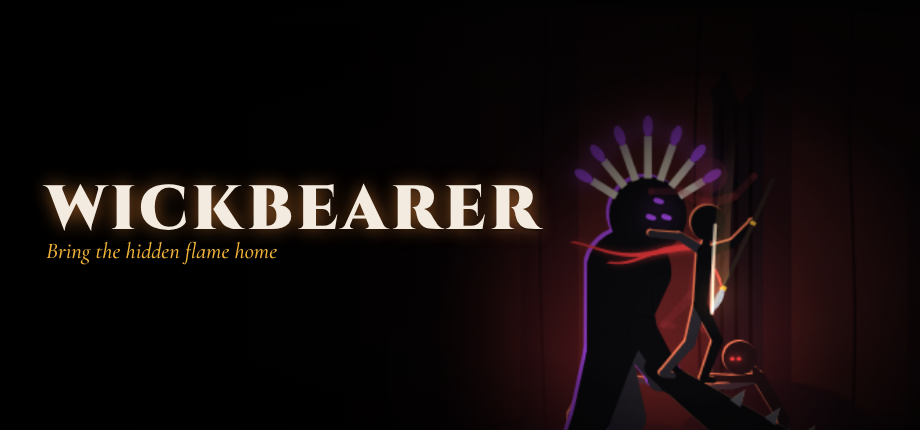
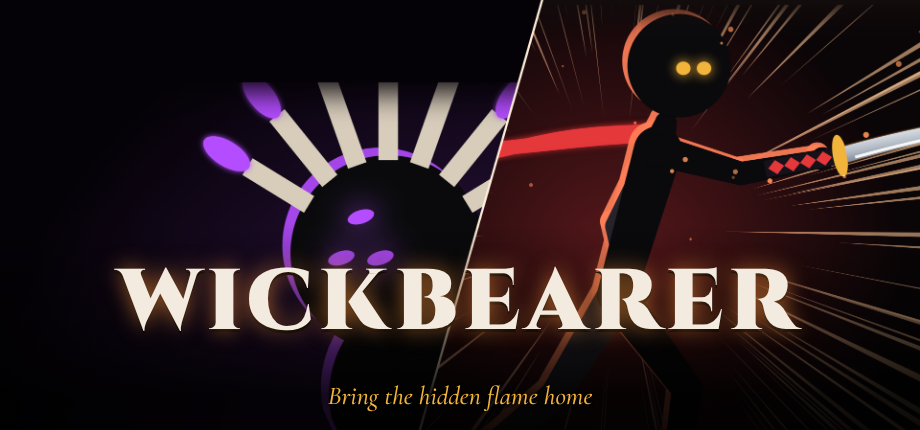
Key art: 4K versus composition and every Steam capsule size
Claude-Session: https://claude.ai/code/session_01BJ7jmPXkpNQ8p4uAxaCYVo

diff --git a/docs/store/keyart.html b/docs/store/keyart.html
@@ -1,0 +1,17 @@
+<!doctype html><html><head><meta charset="utf-8">
+<link href="https://fonts.googleapis.com/css2?family=Cinzel:wght@700;900&family=Cormorant+Garamond:ital,wght@1,500&display=block" rel="stylesheet">
+<style>html,body{margin:0;background:#000}
+.cap{position:relative;overflow:hidden;background:#050304 url(art.jpg) var(--pos,50% 50%)/cover no-repeat}
+.cap::after{content:'';position:absolute;inset:0;background:linear-gradient(transparent 52%,rgba(0,0,0,.88) 92%)}
+.logo,.sub{position:absolute;left:0;right:0;z-index:2;text-align:center}
+.logo{font-family:Cinzel,serif;font-weight:900;color:#f3ebe0;letter-spacing:.06em;text-shadow:0 0 .25em rgba(255,150,60,.6),0 .03em 0 #000}
+.sub{font-family:'Cormorant Garamond',serif;font-style:italic;color:#f2b43a;text-shadow:0 1px 3px #000}
+</style></head><body>
+<div id="c" class="cap"><div class="logo" id="l">WICKBEARER</div><div class="sub" id="s">Bring the hidden flame home</div></div>
+<script>
+const q=new URLSearchParams(location.search), w=+q.get('w'), h=+q.get('h'), logo=q.get('logo')!=='0';
+c.style.width=w+'px'; c.style.height=h+'px'; if(q.get('pos')) c.style.setProperty('--pos',q.get('pos'));
+const fs=Math.min(w*0.11,h*0.2); l.style.fontSize=fs+'px'; l.style.bottom=(h*0.06+fs*0.5)+'px'; s.style.fontSize=fs*0.3+'px'; s.style.bottom=h*0.045+'px';
+if(h<200) { s.style.display='none'; l.style.bottom=h*0.08+'px'; }
+if(!logo){ l.style.display=s.style.display='none'; c.classList.add('nologo'); document.styleSheets[1]; }
+</script></body></html>

diff --git a/docs/store/ka.js b/docs/store/ka.js
@@ -1,0 +1,6 @@
+const { chromium } = require('playwright');
+const jobs = [['keyart-4k',3840,2160,1,''],['capsule-header',920,430,1,'50% 40%'],['capsule-small',462,174,1,'50% 35%'],['capsule-main',1232,706,1,''],['capsule-vertical',748,896,1,'52% 50%'],['library-capsule',600,900,1,'52% 50%'],['library-hero',3840,1240,0,'50% 35%']];
+(async () => { const b = await chromium.launch(); const p = await b.newPage({ viewport: { width: 3900, height: 2200 } });
+  for (const [n,w,h,logo,pos] of jobs) { await p.goto('file://' + process.argv[2] + '?w='+w+'&h='+h+'&logo='+logo+'&pos='+encodeURIComponent(pos)); await p.waitForTimeout(1500);
+    await p.locator('#c').screenshot({ path: process.argv[3] + '/' + n + '.png' }); }
+  await b.close(); })();

diff --git a/docs/STORE.md b/docs/STORE.md
@@ -58,7 +58,7 @@ Action Roguelike, Roguelite, 2D Platformer, Hack and Slash, Stickman, Dark Fanta
 | Screenshots | 1920 × 1080, at least 5 | One per dungeon plus a boss reveal card |
 | Trailer | 1080p, 60 to 90 s | Open on a slam, end on the candle going out |
 
-Drafts of the header, small and main capsules are in `docs/store/`, cut from a real Saint Umber frame of the browser build. `docs/store/capsule.html` lays the logo over any frame saved as `art.png` next to it; open it with `#920x430` (or any size) in the address. Final capsules should be painted at full resolution from the same composition.
+Key art and every capsule are in `docs/store/`: a 4K versus composition (Saint Umber against the wickbearer, split on the ZAN diagonal) built from 4K renders of the story scenes. `keyart-4k.jpg`, `library-hero.jpg` (no logo), and the header, small, main, vertical and library capsules at Steam's sizes. To re-render, open `docs/store/keyart.html?w=920&h=430` (any size; `logo=0` hides the logo, `pos=` moves the crop) or run `node docs/store/ka.js <path to keyart.html> <out folder>`.
 
 ## Trailer shot list (75 seconds)
 
